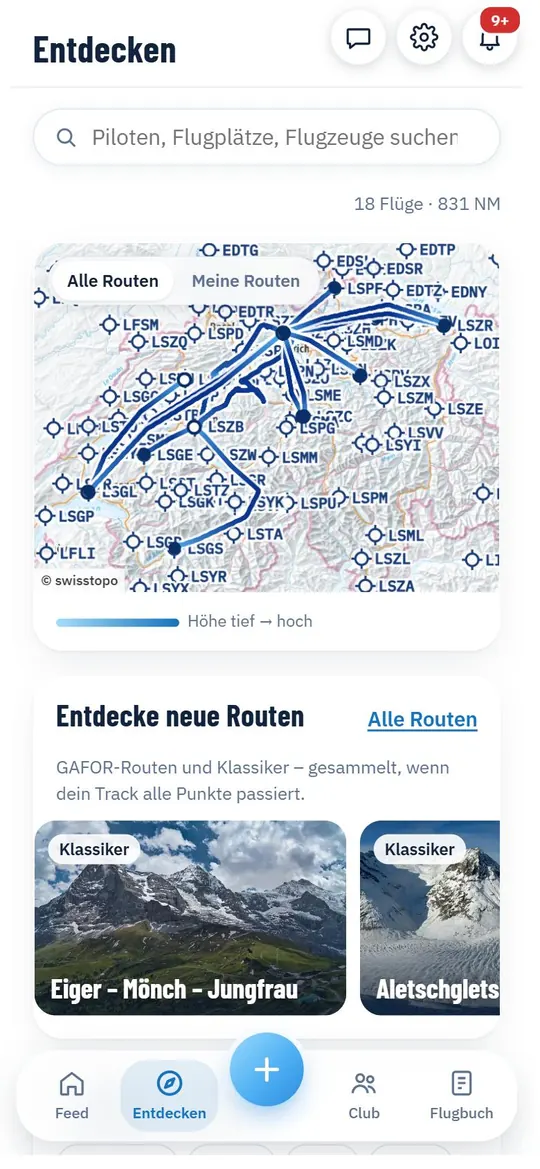
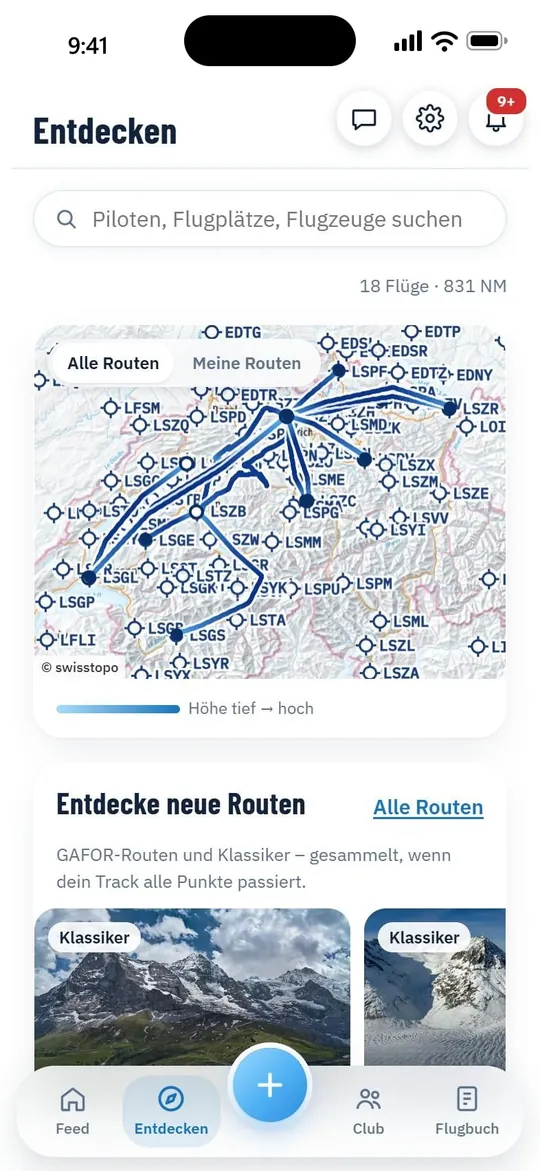
Home: iPhone-size screenshots with iOS status bar, iPhone frame

diff --git a/de/index.html b/de/index.html
@@ -46,7 +46,7 @@
   <div class="ft"><div class="kicker">Flugbuch</div><h2>Aktuell und gültig auf einen Blick.</h2><p>Zeiten, Landungen, Nacht und PIC als CSV und druckbares PDF. Die 90-Tage-Regel, deine Ablaufdaten und Erinnerungen, bevor etwas abläuft.</p></div></section><section class="feature flip">
   <figure><img src="/assets/photos/wingmen.webp" alt="" width="960" height="720" loading="lazy"><a class="credit" href="https://www.instagram.com/exploring_the_skies" rel="noopener">Foto: Jürg Umbricht · @exploring_the_skies</a></figure>
   <div class="ft"><div class="kicker">Wingmen & Club</div><h2>Teilen mit denen, mit denen du fliegst.</h2><p>Flüge sehen nur Wingmen, die du bestätigst. Clubseite, Ausflüge und Fly-ins, Chat – und ein bisschen Sammeln, nie Wettrennen.</p></div></section></div><section class="screens"><div class="wrap"><h2>Ein Blick in die App</h2></div>
-  <div class="screens-row"><figure class="phone"><img src="/assets/screens/de/feed.webp" alt="Feed – Flüge deiner Wingmen" width="540" height="1169" loading="lazy"><figcaption>Feed – Flüge deiner Wingmen</figcaption></figure><figure class="phone"><img src="/assets/screens/de/flight.webp" alt="Jeder Flug auf der Landeskarte" width="540" height="1169" loading="lazy"><figcaption>Jeder Flug auf der Landeskarte</figcaption></figure><figure class="phone"><img src="/assets/screens/de/logbook.webp" alt="Flugbuch – aktuell & gültig" width="540" height="1169" loading="lazy"><figcaption>Flugbuch – aktuell & gültig</figcaption></figure><figure class="phone"><img src="/assets/screens/de/explore.webp" alt="Routen und Klassiker entdecken" width="540" height="1169" loading="lazy"><figcaption>Routen und Klassiker entdecken</figcaption></figure></div></section><section class="band"><img src="/assets/photos/band.webp" alt="" width="1800" height="838" loading="lazy"><div class="band-shade"></div>
+  <div class="screens-row"><figure class="phone"><img src="/assets/screens/de/feed.webp" alt="Feed – Flüge deiner Wingmen" width="540" height="1171" loading="lazy"><figcaption>Feed – Flüge deiner Wingmen</figcaption></figure><figure class="phone"><img src="/assets/screens/de/flight.webp" alt="Jeder Flug auf der Landeskarte" width="540" height="1171" loading="lazy"><figcaption>Jeder Flug auf der Landeskarte</figcaption></figure><figure class="phone"><img src="/assets/screens/de/logbook.webp" alt="Flugbuch – aktuell & gültig" width="540" height="1171" loading="lazy"><figcaption>Flugbuch – aktuell & gültig</figcaption></figure><figure class="phone"><img src="/assets/screens/de/explore.webp" alt="Routen und Klassiker entdecken" width="540" height="1171" loading="lazy"><figcaption>Routen und Klassiker entdecken</figcaption></figure></div></section><section class="band"><img src="/assets/photos/band.webp" alt="" width="1800" height="838" loading="lazy"><div class="band-shade"></div>
   <div class="wrap band-in"><p>Downwind ist nicht zur Navigation bestimmt. Plane und fliege mit offiziellen Karten, AIP, VAC und NOTAM.</p></div><a class="credit" href="https://www.instagram.com/exploring_the_skies" rel="noopener">Foto: Jürg Umbricht · @exploring_the_skies</a></section><div class="wrap"><section class="cta-card"><h2>Flieg mit in der Beta</h2><p>Möchtest du Downwind vor dem Start ausprobieren? Schreib an <a href="mailto:hello@flydownwind.ch?subject=Downwind%20Beta">hello@flydownwind.ch</a> oder lies, <a href="/de/beta/">wie die TestFlight-Beta funktioniert</a>.</p></section></div>
 </main>
 <footer class="foot"><div class="wrap"><b>Downwind ist nicht zur Navigation bestimmt.</b><a href="/de/privacy/">Datenschutz</a><a href="/de/support/">Hilfe</a><a href="/de/imprint/">Impressum</a><span>© 2026 Downwind · Gemacht in der Schweiz</span></div></footer>

diff --git a/index.html b/index.html
@@ -46,7 +46,7 @@
   <div class="ft"><div class="kicker">Logbook</div><h2>Current and valid at a glance.</h2><p>Times, landings, night and PIC as CSV and printable PDF. The 90-day rule, your expiry dates and reminders before they run out.</p></div></section><section class="feature flip">
   <figure><img src="/assets/photos/wingmen.webp" alt="" width="960" height="720" loading="lazy"><a class="credit" href="https://www.instagram.com/exploring_the_skies" rel="noopener">Photo: Jürg Umbricht · @exploring_the_skies</a></figure>
   <div class="ft"><div class="kicker">Wingmen & club</div><h2>Share with the people you fly with.</h2><p>Flights are visible only to wingmen you confirm. Club page, fly-outs and fly-ins, chat – and friendly collecting, never racing.</p></div></section></div><section class="screens"><div class="wrap"><h2>A look inside the app</h2></div>
-  <div class="screens-row"><figure class="phone"><img src="/assets/screens/en/feed.webp" alt="Feed – flights of your wingmen" width="540" height="1169" loading="lazy"><figcaption>Feed – flights of your wingmen</figcaption></figure><figure class="phone"><img src="/assets/screens/en/flight.webp" alt="Every flight on the swisstopo map" width="540" height="1169" loading="lazy"><figcaption>Every flight on the swisstopo map</figcaption></figure><figure class="phone"><img src="/assets/screens/en/logbook.webp" alt="Logbook – current & valid" width="540" height="1169" loading="lazy"><figcaption>Logbook – current & valid</figcaption></figure><figure class="phone"><img src="/assets/screens/en/explore.webp" alt="Explore routes and classics" width="540" height="1169" loading="lazy"><figcaption>Explore routes and classics</figcaption></figure></div></section><section class="band"><img src="/assets/photos/band.webp" alt="" width="1800" height="838" loading="lazy"><div class="band-shade"></div>
+  <div class="screens-row"><figure class="phone"><img src="/assets/screens/en/feed.webp" alt="Feed – flights of your wingmen" width="540" height="1171" loading="lazy"><figcaption>Feed – flights of your wingmen</figcaption></figure><figure class="phone"><img src="/assets/screens/en/flight.webp" alt="Every flight on the swisstopo map" width="540" height="1171" loading="lazy"><figcaption>Every flight on the swisstopo map</figcaption></figure><figure class="phone"><img src="/assets/screens/en/logbook.webp" alt="Logbook – current & valid" width="540" height="1171" loading="lazy"><figcaption>Logbook – current & valid</figcaption></figure><figure class="phone"><img src="/assets/screens/en/explore.webp" alt="Explore routes and classics" width="540" height="1171" loading="lazy"><figcaption>Explore routes and classics</figcaption></figure></div></section><section class="band"><img src="/assets/photos/band.webp" alt="" width="1800" height="838" loading="lazy"><div class="band-shade"></div>
   <div class="wrap band-in"><p>Downwind is not for navigation. Plan and fly with official charts, AIP, VAC and NOTAM.</p></div><a class="credit" href="https://www.instagram.com/exploring_the_skies" rel="noopener">Photo: Jürg Umbricht · @exploring_the_skies</a></section><div class="wrap"><section class="cta-card"><h2>Fly with us in the beta</h2><p>Want to try Downwind before the launch? Write to <a href="mailto:hello@flydownwind.ch?subject=Downwind%20beta">hello@flydownwind.ch</a> or read <a href="/beta/">how the TestFlight beta works</a>.</p></section></div>
 </main>
 <footer class="foot"><div class="wrap"><b>Downwind is not for navigation.</b><a href="/privacy/">Privacy</a><a href="/support/">Support</a><a href="/imprint/">Imprint</a><span>© 2026 Downwind · Made in Switzerland</span></div></footer>

diff --git a/assets/site.css b/assets/site.css
@@ -109,6 +109,6 @@ footer.foot a{color:var(--muted)}
 .screens h2{font-size:clamp(30px,4vw,42px);margin:.2em 0 .6em}
 .screens-row{display:flex;gap:22px;overflow-x:auto;scroll-snap-type:x mandatory;padding:6px max(16px,calc((100vw - 880px)/2)) 18px;-webkit-overflow-scrolling:touch}
 .phone{flex:0 0 220px;margin:0;scroll-snap-align:center;text-align:center}
-.phone img{display:block;width:100%;height:auto;border-radius:30px;border:7px solid #12243D;box-shadow:0 18px 40px rgb(18 36 61 / .22);background:#fff}
+.phone img{display:block;width:100%;height:auto;border-radius:38px;border:6px solid #111;outline:1.5px solid #3a3f47;outline-offset:-1px;box-shadow:0 18px 40px rgb(18 36 61 / .22);background:#fff}
 .phone figcaption{margin-top:12px;font-size:14px;color:var(--muted);font-weight:600}
 @media (min-width:1000px){.screens-row{justify-content:center}}
